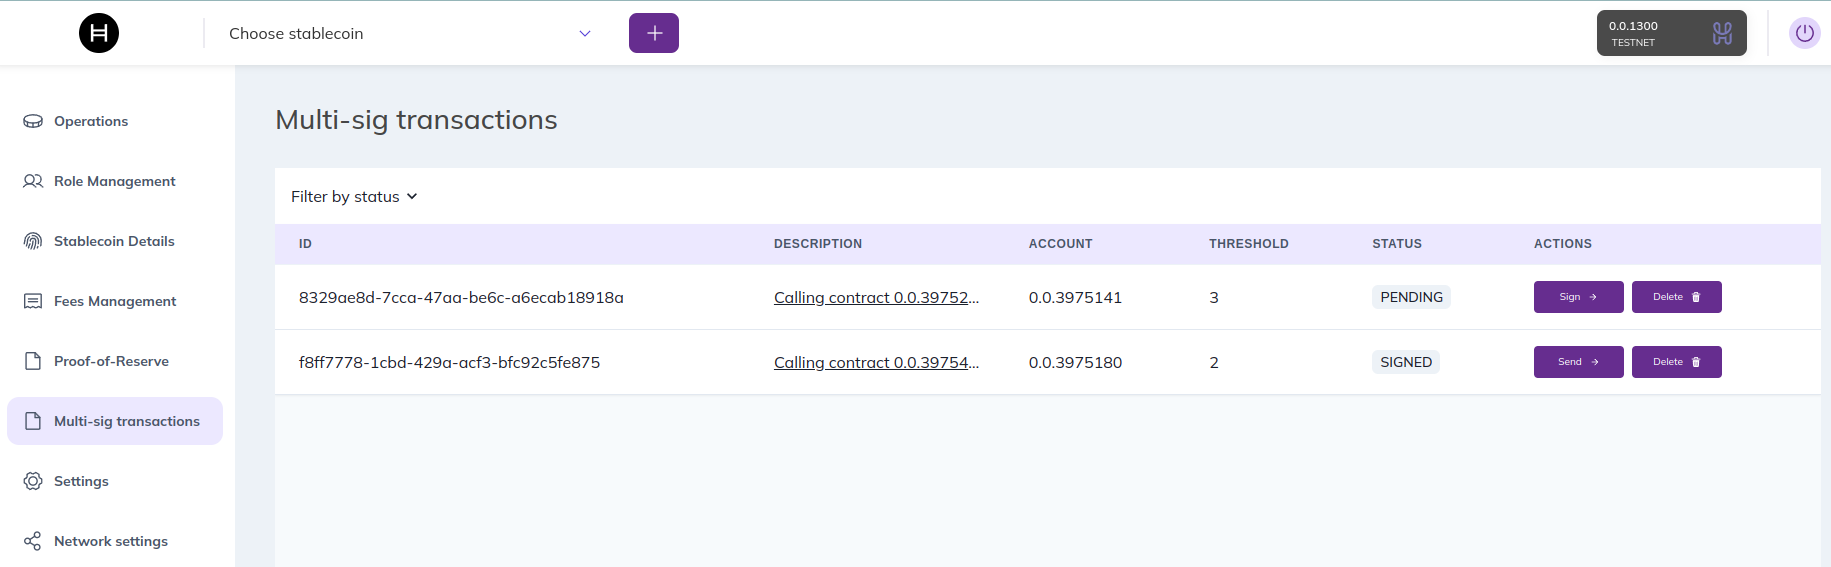
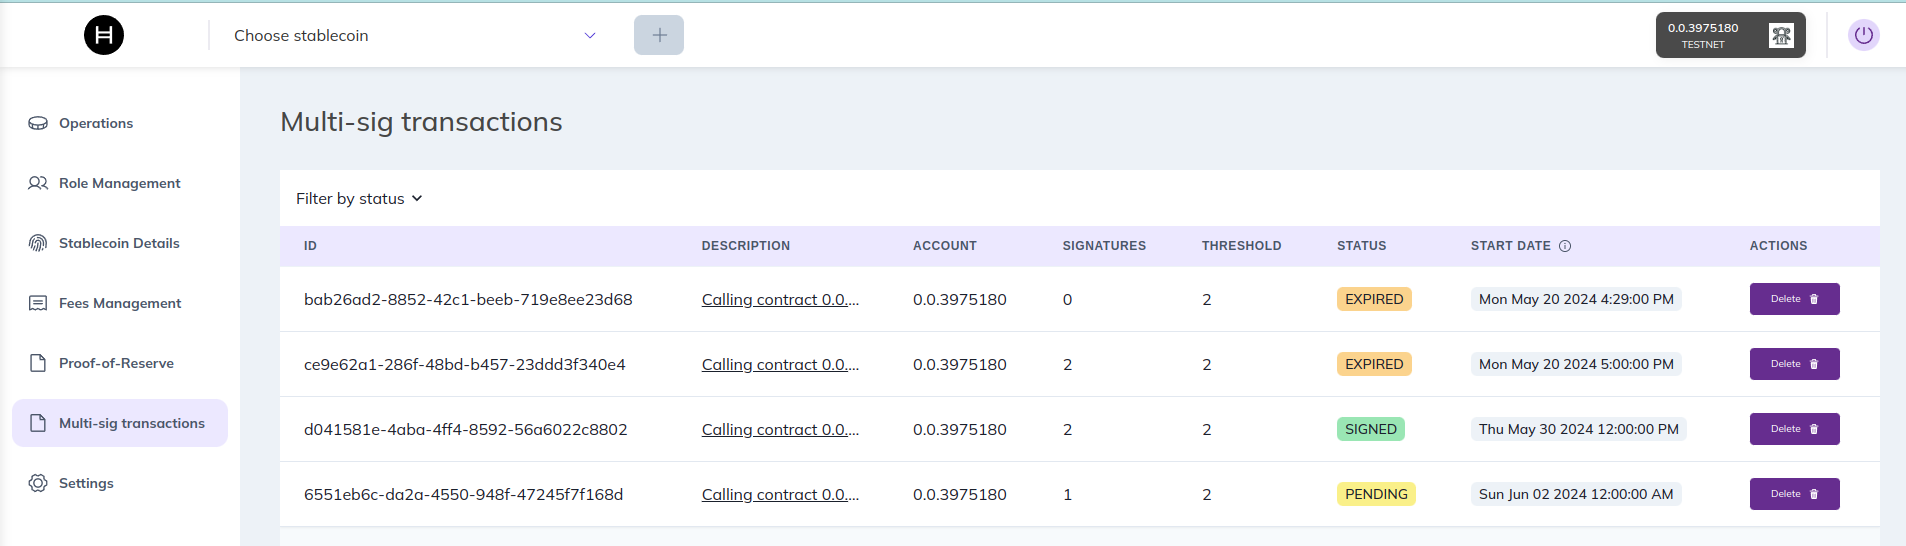
Feat/signatures UI cli (#1127)
* feat: signatures added to web

* fix: vesion 1.21.1

* fix: factory version version updated

* feat: multisig transaciton image in doc updated

---------

diff --git a/web/src/views/MultiSigTransactions/MultisigTransactions.tsx b/web/src/views/MultiSigTransactions/MultisigTransactions.tsx
@@ -201,6 +201,7 @@ const MultiSigTransactions = () => {
 								<Th>ID</Th>
 								<Th>Description</Th>
 								<Th>Account</Th>
+								<Th>Signatures</Th>
 								<Th>Threshold</Th>
 								<Th>Status</Th>
 								<Th>
@@ -248,6 +249,9 @@ const MultiSigTransactions = () => {
 									</Td>
 									<Td borderBottom='1px' borderColor='gray.200'>
 										{transaction.hedera_account_id}
+									</Td>
+									<Td borderBottom='1px' borderColor='gray.200'>
+										{transaction.signed_keys.length}
 									</Td>
 									<Td borderBottom='1px' borderColor='gray.200'>
 										{transaction.threshold}

diff --git a/FACTORY_VERSION.md b/FACTORY_VERSION.md
@@ -1,5 +1,6 @@
 | Version | Contract name  | Address     | Network |
 |---------| -------------- | ----------- | ------- |
+| 1.21.1  | FactoryAddress | 0.0.2167166 | Testnet |
 | 1.21.0  | FactoryAddress | 0.0.2167166 | Testnet |
 | 1.20.1  | FactoryAddress | 0.0.2167166 | Testnet |
 | 1.20.0  | FactoryAddress | 0.0.2167166 | Testnet |
